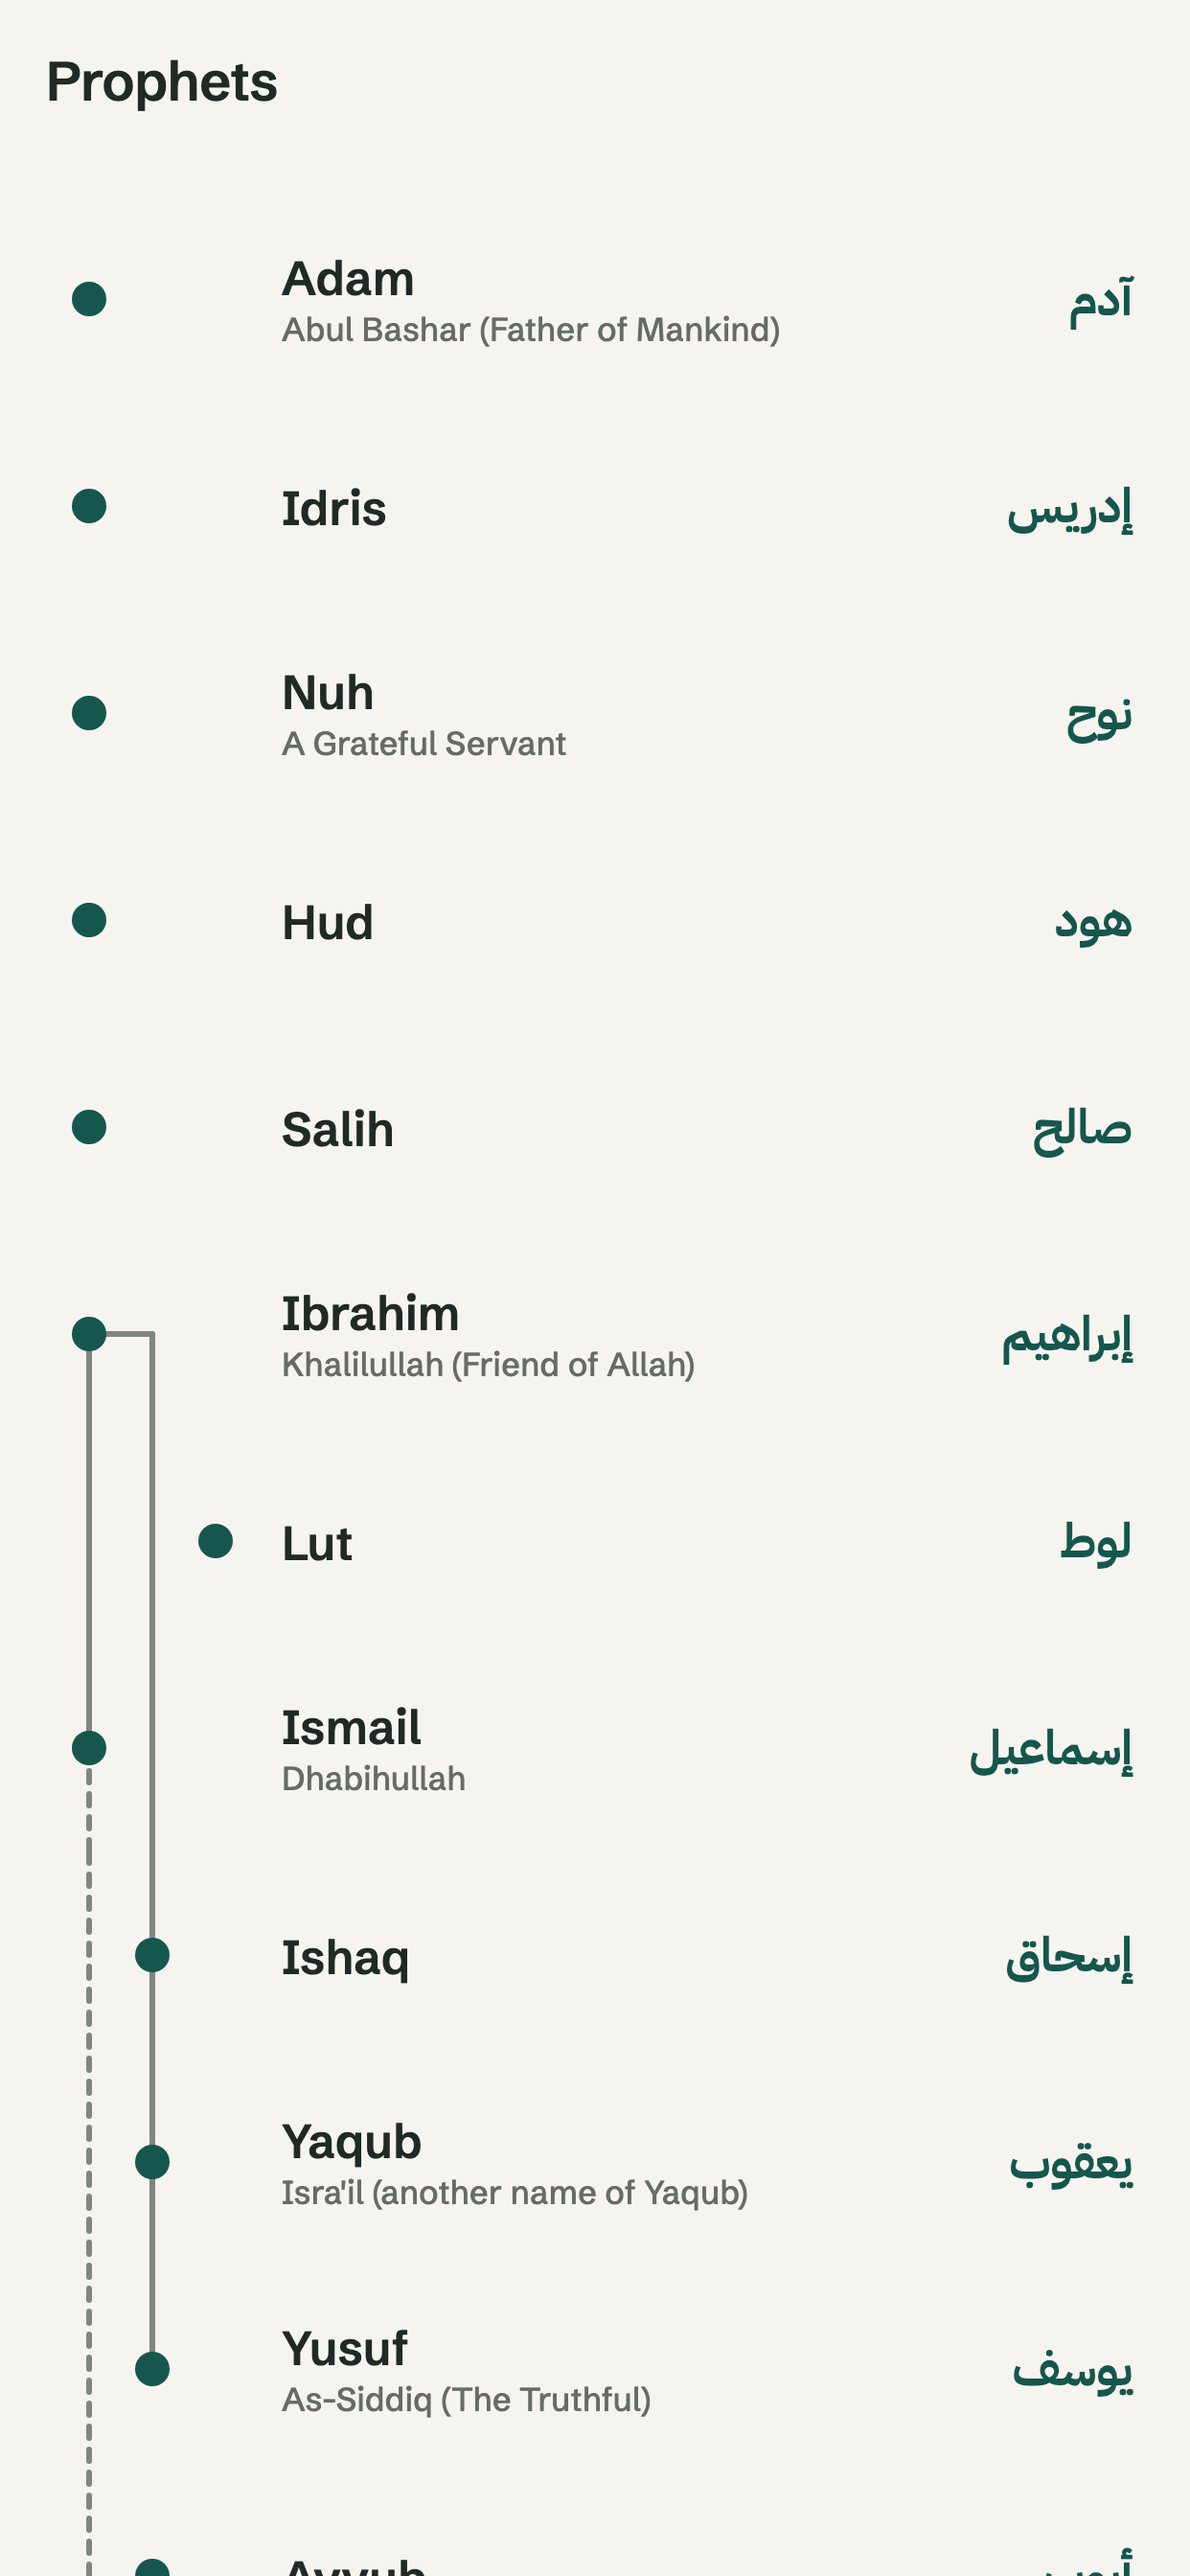
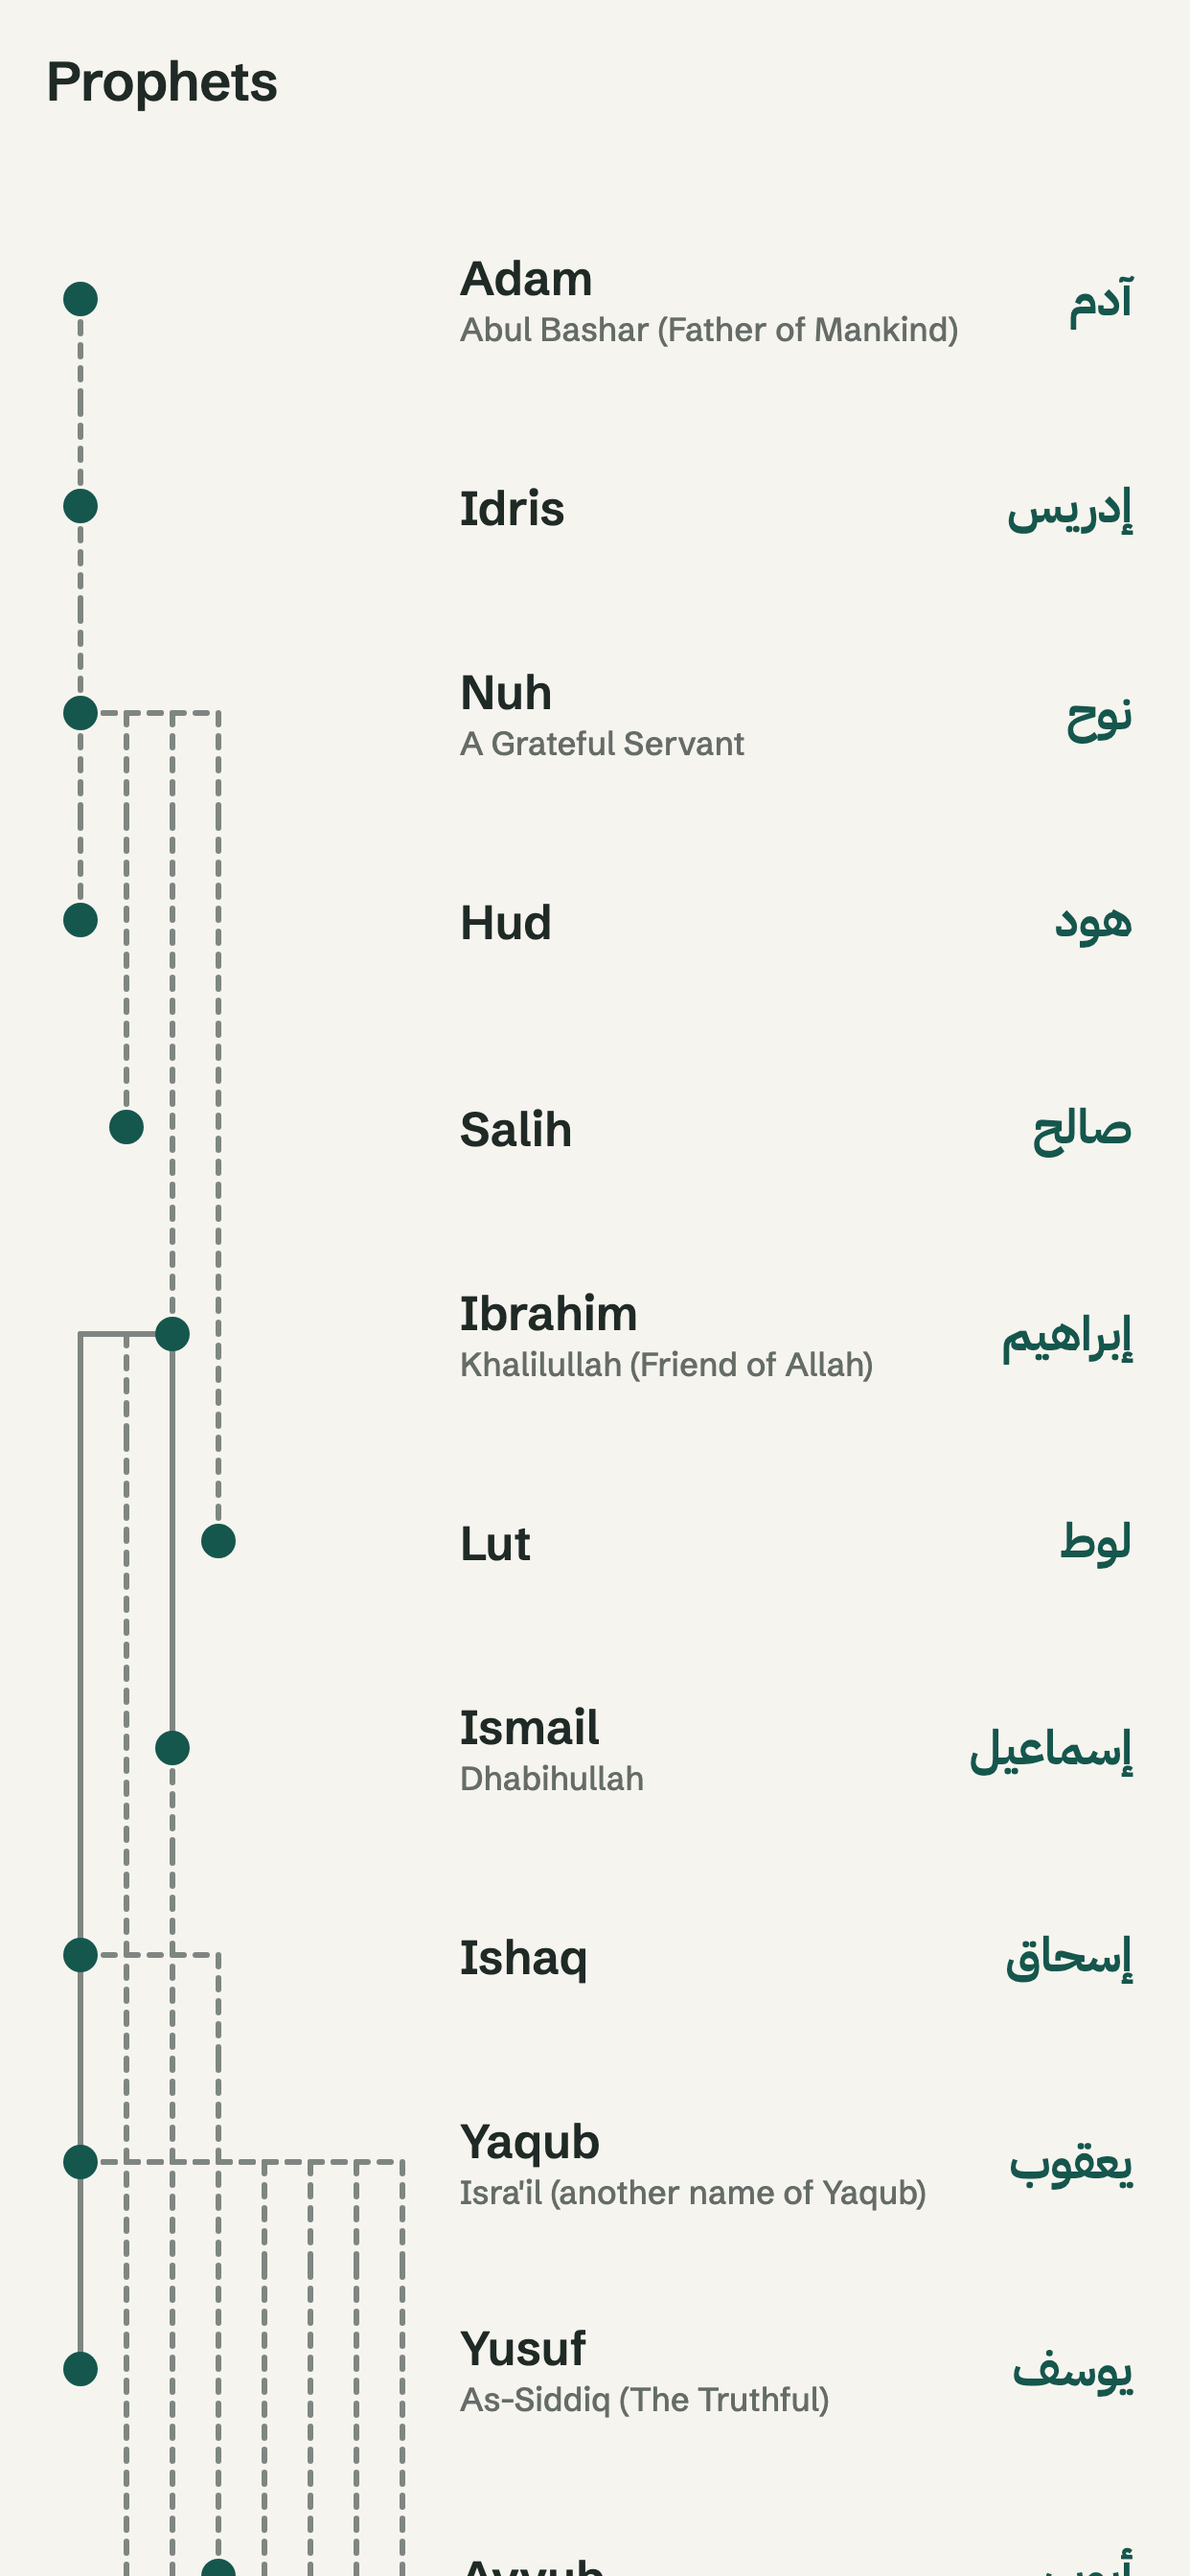
fix(prophets): lineage links from the Salasilah chart; compact tree layout
Every prophet but Adam now has a parent (7 direct, rest dashed). Lut
descends from Nuh via Azar, not from Hud as the chart draws. Later
children take the lowest free column (13 -> 8 lanes); lane width 16 dp.

diff --git a/test/features/prophets/data/prophet_data_test.dart b/test/features/prophets/data/prophet_data_test.dart
@@ -127,6 +127,41 @@ void main() {
       }
     });
 
+    test('only Adam is a root; links follow the Salasilah chart', () {
+      final byId = {for (final p in prophets) p.id: p};
+      expect(prophets.where((p) => p.parent == null).map((p) => p.id), [
+        'adam',
+      ]);
+      // Direct (solid) links: father → son.
+      for (final (child, parent) in [
+        ('ismail', 'ibrahim'),
+        ('ishaq', 'ibrahim'),
+        ('yaqub', 'ishaq'),
+        ('yusuf', 'yaqub'),
+        ('dhulkifl', 'ayyub'),
+        ('sulaiman', 'dawud'),
+        ('yahya', 'zakariya'),
+      ]) {
+        expect(byId[child]!.parent, parent, reason: child);
+        expect(byId[child]!.parentDistant, isFalse, reason: child);
+      }
+      expect(byId['lut']!.parent, 'nuh', reason: 'nephew, not son, of Ibrahim');
+      expect(byId['muhammad']!.parent, 'ismail');
+      expect(byId['muhammad']!.parentDistant, isTrue);
+    });
+
+    test('the real tree stays narrow enough for a phone', () {
+      final lanes = layoutLineage(prophets).fold(
+        1,
+        (n, r) => [
+          n,
+          r.column + 1,
+          ...r.outgoing.keys.map((c) => c + 1),
+        ].reduce((a, b) => a > b ? a : b),
+      );
+      expect(lanes, lessThanOrEqualTo(8));
+    });
+
     test('the real tree puts no dot on a passing line', () {
       for (final row in layoutLineage(prophets)) {
         expect(

diff --git a/lib/features/prophets/domain/entities/lineage.dart b/lib/features/prophets/domain/entities/lineage.dart
@@ -38,7 +38,8 @@ final class LineageRow {
 /// Lays [prophets] out as timeline rows, sorted by `order`.
 ///
 /// A prophet's first child (lowest order) continues in the parent's column;
-/// later children branch into the nearest free column to the right. Roots
+/// later children branch into the lowest free column, so the tree stays as
+/// narrow as the busiest row allows. Roots
 /// (no parent, an unknown parent, or a parent that comes later) take the
 /// lowest column no line is passing through, so dots never sit on another
 /// prophet's line.
@@ -76,7 +77,7 @@ List<LineageRow> layoutLineage(Iterable<Prophet> prophets) {
         final outgoing = <int, LinkStyle>{};
         for (final child in sorted.where((c) => c.parent == p.id)) {
           if (linkOf(child) case final style?) {
-            final at = outgoing.isEmpty ? column : free(reserved, column + 1);
+            final at = outgoing.isEmpty ? column : free(reserved, 0);
             reserved[at] = (child.id, style);
             outgoing[at] = style;
           }

diff --git a/test/features/prophets/domain/lineage_test.dart b/test/features/prophets/domain/lineage_test.dart
@@ -85,6 +85,22 @@ void main() {
       expect(r['muhammad']!.incoming, LinkStyle.dashed);
     });
 
+    test('a later child reuses a freed column on the start side', () {
+      final r = _byId(
+        layoutLineage([
+          _p('a', 1),
+          _p('b', 2, parent: 'a'),
+          _p('c', 3, parent: 'a'),
+          _p('d', 4, parent: 'c'),
+          _p('e', 5, parent: 'c'),
+        ]),
+      );
+      // b ends column 0; c sits in column 1 and branches e back into 0.
+      expect(r['c']!.column, 1);
+      expect(r['c']!.outgoing, {1: LinkStyle.solid, 0: LinkStyle.solid});
+      expect(r['e']!.column, 0);
+    });
+
     test('a root never lands on a passing line', () {
       final r = _byId(
         layoutLineage([

diff --git a/lib/features/prophets/presentation/screens/prophets_screen.dart b/lib/features/prophets/presentation/screens/prophets_screen.dart
@@ -31,7 +31,7 @@ final class _ProphetsScreenState extends State<ProphetsScreen> {
   late final ProphetsStore _store = locator<ProphetsStore>();
 
   static const _rowHeight = 72.0;
-  static const _laneWidth = 22.0;
+  static const _laneWidth = 16.0;
 
   @override
   void initState() {

diff --git a/docs/PRODUCTIVE_MUSLIM_PROGRESS.md b/docs/PRODUCTIVE_MUSLIM_PROGRESS.md
@@ -8,6 +8,7 @@
 
 | Phase | Title | Status | Notes |
 |---|---|---|---|
+| 2026-11-05 | **Prophets lineage from the Salasilah chart** (`fix/prophets-lineage`). The owner sent a "Salasilah Nabi/Rasul" image, and its prophet → prophet links are now in `prophets.json`: only Adam is a root, 7 links are direct and the rest dashed. One change from the chart: Lut descends from Nuh via Azar (Ibrahim's nephew), not from Hud. Ayyub → Dhul-Kifl is the chart's minority view. The full list is in `docs/STORIES_PROPHETS_PENDING.md`. `layoutLineage`: later children now take the lowest free column (was: the first free column right of the parent), so the tree is 8 lanes, not 13. Lane width is 22 → 16 dp so the titles fit at 360 dp. Prophets store screenshots re-rendered. Tests: branch reuses a freed start-side column; real data has only Adam as root, keeps the chart's direct links and Lut ← Nuh, and stays ≤ 8 lanes. | UNVERIFIED (the chart has no source); scholar review pending |
 | 2026-11-05 | **Prayer / mosque review fixes** (branch `fix/review-prayer-mosque`). **Mosque per waqt start (owner decision):** Home's countdown, prayer rows and Jumu'ah flag now take every waqt's jamaat from `resolveMosqueForWaqt` (mosque active at that waqt's start; a live override wins once it has begun) — the rule notifications and jamaat focus already used; before, only the overnight waqt and Friday Dhuhr did, the rest used the mosque active *now*. One memoized computed per prayer in `HomeStore`; `jamaatConfig`/`_fridayDhuhrConfig`/`_overnightConfig` removed. **Sunset after midnight** (Nome in June): `resolveNextPrayer` returns yesterday's still-ahead Maghrib before its Isha; the widget schedule leads with yesterday's Maghrib line; `PrayerDay.sunsetYesterday` (new, from the repo; defaults to `maghribYesterday`) — before Fajr, when that sunset is past midnight, the forbidden-sunset and Awwabin windows are yesterday's. | Tests: auto-mode A (12:00–14:00, 13:30) vs default B (14:15) — at 14:05 Home targets waqt end with A's 13:30 row, at 13:00 A's jamaat; Nome next prayer, widget schedule, special windows (pre-Fajr yesterday's, after Fajr today's, evening-sunset unchanged). analyze clean; full suite green |
 | 2026-11-05 | **Core / settings / onboarding / Ramadan / calendar review fixes** (branch `fix/review-core-settings`). **SettingsStore:** updates arriving while storage is unreadable share one in-flight retry-read, so overlapping updates (each read used to overwrite `settings` with its own snapshot) no longer drop the earlier one. **Onboarding:** a `PlatformException` from the notification prompt is caught; the step advances and reads as denied (existing snackbar). **Settings / app lock:** `disable()`/`setScope()` failures bump `saveFailures` (existing snackbar); `AppLockStore.disable` clears in-memory state right after storage, a failed throttle reset is only logged. **Router:** notification settings child path is relative (`settings`), so it resolves at `/notifications/settings` (was `/notifications/notifications/settings`); `RouterRefresh` watches a `computed` over `setupComplete`, not every settings change. **Architecture test:** `drift_flutter`, `shared_preferences_android`, `timezone`, `adhan_dart` added to the platform packages (no new violations). **Ramadan:** on the eve of 1 Ramadan (Hijri offset applied), from Maghrib the today card counts down to the first sahri (`RamadanStore.eveMaghrib` / `firstFastAfterEve`). **Calendar:** the Hijri header names every Hijri month the Gregorian month touches (`hijriSpanLabel`, e.g. Dec 2035: three). Skipped: credits Adhan attribution string — not on this branch (lives on the unmerged azan-audio branch). | Tests: overlapping updates after failed read; failing permission plugin advances; disable with failing throttle write; route path + refresh only on setupComplete; eve card (store + widget, offset); 3-month Hijri header. analyze clean; full suite green |
 | 2026-11-02 | **Prayer times / mosque / widget review fixes** (branch `fix/review-prayer-widget`). **My Mosque:** every change made while prefs can't be read is queued and replayed in order onto the stored state by the first load that succeeds (from the next write or the screen's retry), then saved — earlier in-memory edits are no longer dropped. **Countdown:** in Ramadan, from today's Isha to midnight the hero targets tomorrow's sahri end (`fajrTomorrow` − safety) instead of the Isha waqt end; a still-ahead Isha jamaat wins. **Day timeline:** "Sahri ends" shows only in Ramadan (the repo's +1 min margin made `sahriEnd != fajr` always true); `showDayTimelineSheet` takes a sheet builder run inside the `SignalBuilder`, so an open sheet reads the store's live day/jumuah/forbidden windows and rolls over at midnight. **Home widget:** when today's times fail but a location exists the payload keeps `widget_configured=1` (native shows "open the app", not setup) and a 15-min retry is armed. Not changed: native legacy keys — the `widget_times*` strip fallback is live for payloads from the previous version (which also pushed `widget_schedule`); `widget_prayer`/`widget_time` carry no timestamp, so showing them could be a passed prayer (REVIEW_FIX_PLAN 4.3: never stale times) — stale "open the app" is the intended state. | Tests: queued mosque edits survive (write path + retry path); Ramadan after-Isha (target, safety margin, Isha jamaat wins); Sahri row only in Ramadan; open sheet follows the live day; widget boundary re-arm (next prayer, midnight, past-`next` guard), failed-day retry + configured=1; HomeStore override expiry (kept when live, cleared once when the window moved or the day ended, a failed clear doesn't loop). analyze clean; full suite green |

diff --git a/docs/STORIES_PROPHETS_PENDING.md b/docs/STORIES_PROPHETS_PENDING.md
@@ -64,6 +64,23 @@ Every ref must be read and matched before it ships.
     "Divine Inspiration" as the Quran (standard, but an interpretation).
   - Left out on purpose: Ayyub's oath and branch (38:44), Lut's "daughters" (11:78),
     Ibrahim's "three lies", details of Ayyub's illness.
+- **Lineage links from the "Salasilah Nabi/Rasul" chart (2026-11-05, `fix/prophets-lineage`).**
+  The owner supplied the chart (an image; no author or source given, so UNVERIFIED). Its
+  names come largely from the genealogies in Ibn Kathir's *Qisas al-Anbiya* and from
+  Israelite reports. Only prophet → prophet links were taken; the names in between are not
+  bundled. Every prophet except Adam now has a parent:
+  - Solid (father → son): Ibrahim → Ismail, Ishaq; Ishaq → Yaqub → Yusuf; Dawud →
+    Sulaiman; Zakariya → Yahya; **Ayyub → Dhul-Kifl** (the chart's view that Dhul-Kifl is
+    Bishr son of Ayyub; this is a minority view and his identity is disputed).
+  - Dashed (many generations): Adam → Idris → Nuh; Nuh → Hud, Salih, Ibrahim, Lut;
+    Ibrahim → Shuayb (via Madyan); Ishaq → Ayyub (via Esau); Yaqub → Musa, Harun (via Levi),
+    Yunus (via Binyamin), Dawud (via Yahuda); Harun → Ilyas, Al-Yasa; Sulaiman → Zakariya,
+    'Isa (via Maryam); Ismail → Muhammad ﷺ (via Adnan).
+  - **Changed from the chart:** the chart draws Lut descending from Hud (via Haran). Lut
+    was the son of Haran, Ibrahim's brother, so he descends from Azar (Nuh → Lut, dashed),
+    as the entry's own summary says.
+  - A scholar should confirm these links, especially Dhul-Kifl, Yunus → Binyamin, the
+    Harun → Ilyas/Al-Yasa chains, and Sulaiman → Zakariya/'Isa.
 - **Muslim numbering: DECIDED 2026-11-05** (default chosen when the owner said "do all"; the
   owner may revisit). Every Muslim ref uses the bundled hadith.db numbering (sequential, e.g.
   Muslim 6162 = 2379 in the common numbering), since the app and the ref checker read that DB.
